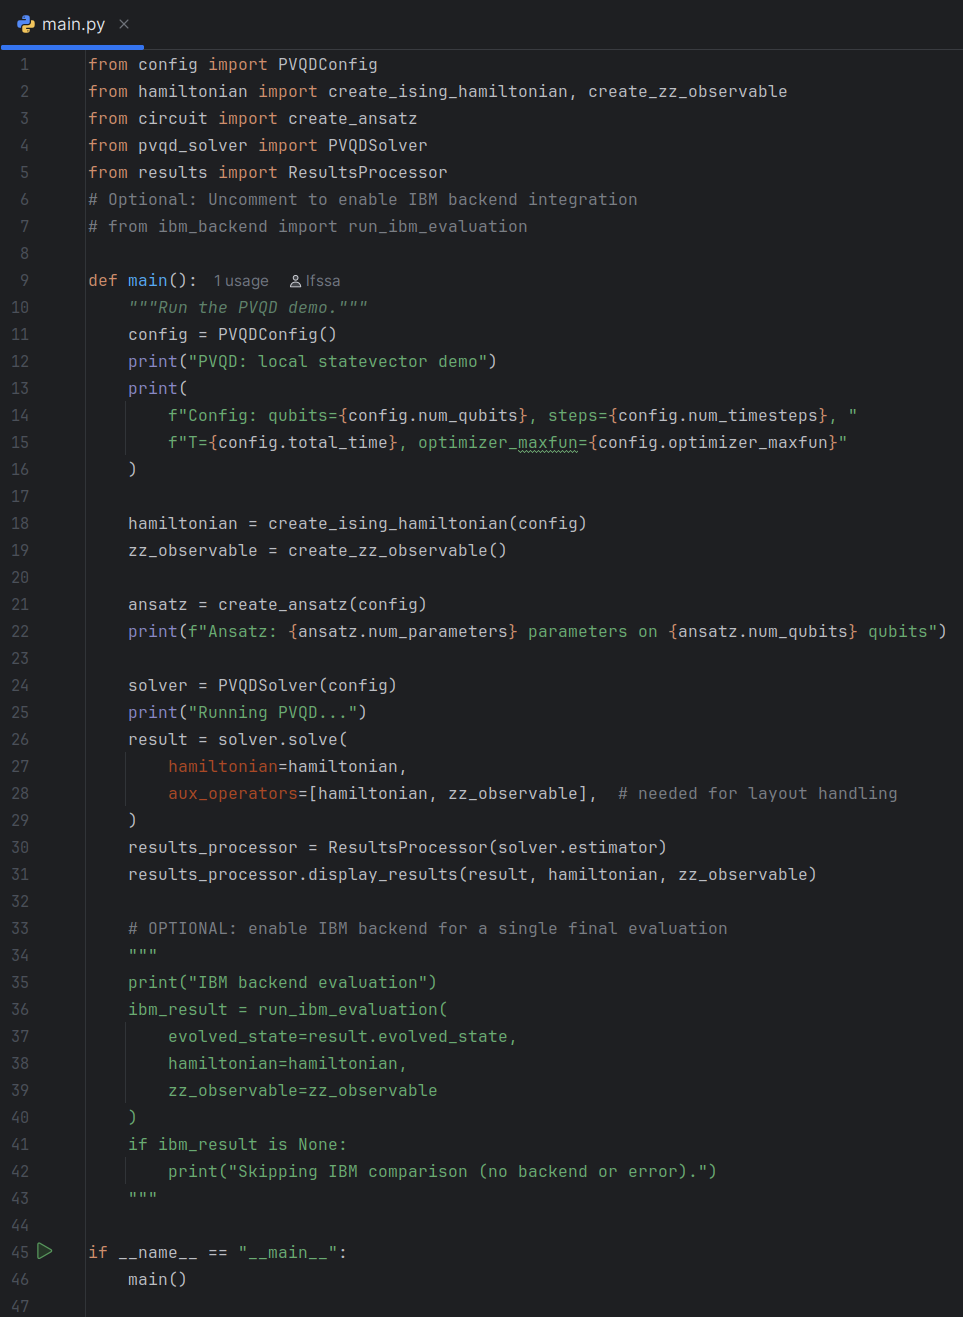
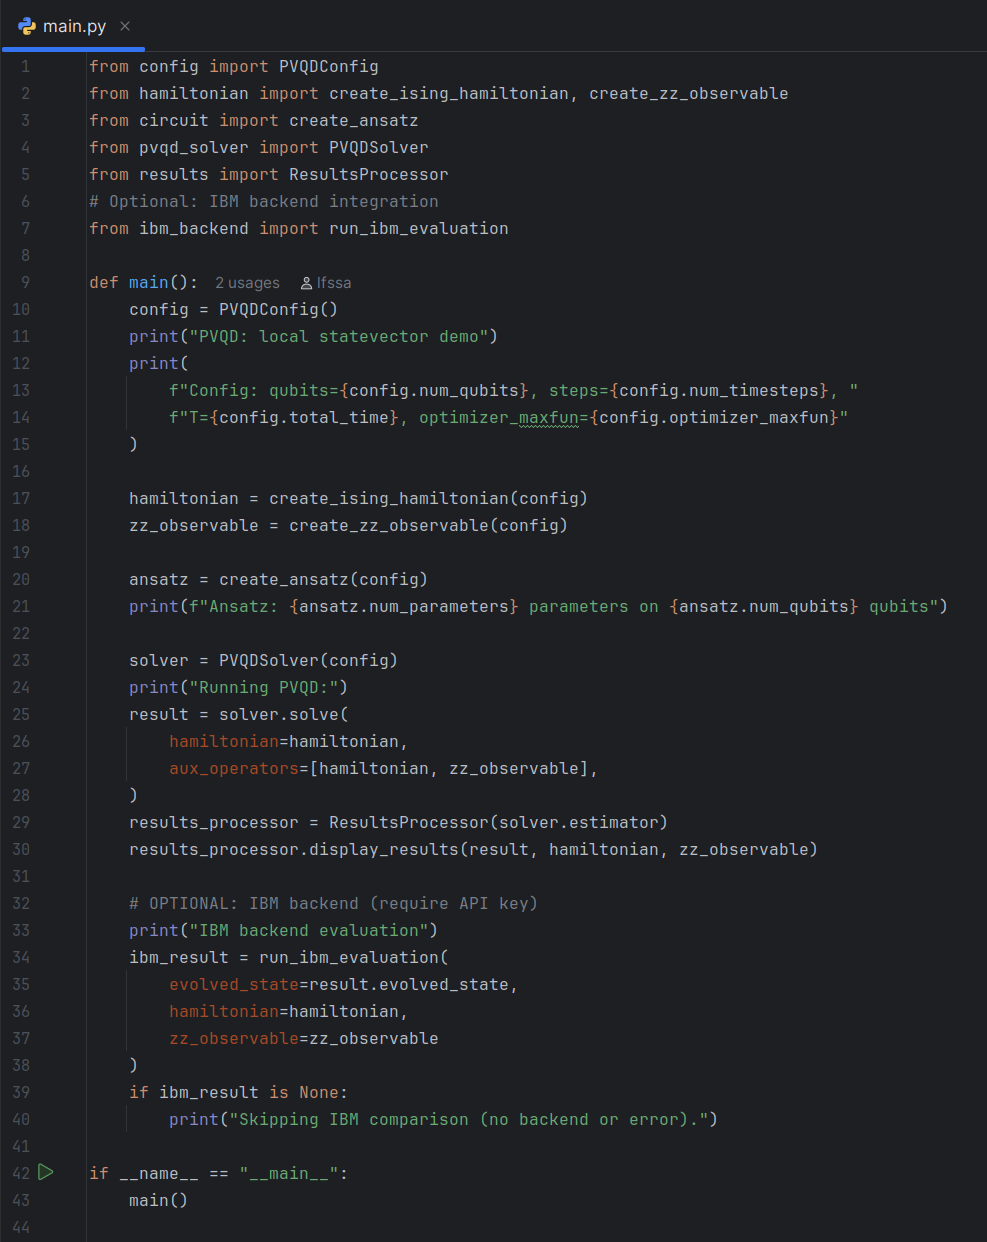
slides v2

diff --git a/presentation/slides.tex b/presentation/slides.tex
@@ -1,35 +1,24 @@
 \documentclass[10pt]{beamer}
 
-% Tema limpo e profissional
 \usetheme{Madrid}
 \usecolortheme{seahorse}
 
 \usepackage{graphicx}
+\usepackage{adjustbox}
 \usepackage{amsmath}
 \usepackage{bm}
-\usepackage{listings}
 \usepackage{xcolor}
 
-% Cores personalizadas (baseado no banner)
+% Cores personalizadas
 \definecolor{academicblue}{RGB}{0,51,102}
 \definecolor{lightblue}{RGB}{230,240,250}
 
 \setbeamercolor{title}{fg=academicblue}
 \setbeamercolor{frametitle}{fg=academicblue}
 
-\lstset{
-    language=Python,
-    basicstyle=\ttfamily\footnotesize,
-    keywordstyle=\color{academicblue}\bfseries,
-    commentstyle=\color{gray}\itshape,
-    stringstyle=\color{academicblue},
-    showstringspaces=false,
-    breaklines=true
-}
-
 \title[PVQD]{Projeção Variacional da Dinâmica Quântica (PVQD)}
 \author{Lucas F. Brayner \\ Luiz Felipe Sá \\ Victor S. Dutra}
-\institute{Ciência da Computação – UNINASSAU}
+\institute{Ciência da Computação -- UNINASSAU}
 \date{2025}
 
 % -------------------------------------------------------
@@ -43,56 +32,57 @@
 \begin{frame}{Motivação}
   \begin{itemize}
     \item Simular a evolução temporal de sistemas quânticos é computacionalmente caro.
-    \item Trotterização exige circuitos profundos → difícil para hardware NISQ.
+    \item Trotterização exige circuitos profundos $\rightarrow$ difícil para hardware NISQ.
     \item O PVQD evita decompor $e^{-iHt}$ e usa otimização variacional.
-    \item Ótimo para sistemas pequenos, como o modelo de Ising.
+    \item Bom cenário de teste: modelo de Ising com poucos qubits.
   \end{itemize}
 \end{frame}
 
 % -------------------------------------------------------
 \begin{frame}{O que é o PVQD?}
   \begin{itemize}
-    \item Método híbrido quântico–clássico.
-    \item Aproxima a dinâmica pela projeção da equação de Schrödinger:
+    \item Método híbrido quântico--clássico.
+    \item Aproxima a dinâmica pela equação de Schrödinger:
     \[
-      i \frac{d}{dt}|\psi(t)\rangle = H|\psi(t)\rangle.
+      i \frac{d}{dt}\lvert \psi(t)\rangle = H \lvert \psi(t)\rangle .
     \]
-    \item O estado é restrito a um ansatz parametrizado:
+    \item Restringimos o estado a um ansatz parametrizado:
     \[
-      |\psi(\theta(t))\rangle.
+      \lvert \psi(\boldsymbol{\theta}(t))\rangle.
     \]
-    \item A evolução é obtida ajustando $\dot{\theta}$ em cada passo.
+    \item A evolução é obtida atualizando os parâmetros em cada passo de tempo.
   \end{itemize}
 \end{frame}
 
 % -------------------------------------------------------
-\begin{frame}{Equação Variacional}
+\begin{frame}{Equação variacional do PVQD}
 \[
-  \min_{\dot{\bm{\theta}}}
-  \Big\|
-    \frac{d}{dt}|\psi(\bm{\theta})\rangle
-    - H|\psi(\bm{\theta})\rangle
-  \Big\|^2
+  \min_{\dot{\boldsymbol{\theta}}}
+  \left\|
+    \frac{d}{dt} \lvert \psi(\boldsymbol{\theta})\rangle
+    - H \lvert \psi(\boldsymbol{\theta})\rangle
+  \right\|^2
 \]
+
 \begin{itemize}
-  \item Isso gera um sistema linear:
-  \[
-    M \cdot \dot{\bm{\theta}} = V,
-  \]
-  onde $M$ é a matriz variacional e $V$ é o vetor de forças.
-  \item Resolver este sistema fornece os incrementos dos parâmetros.
+  \item Isso leva a um sistema linear:
+    \[
+      M \, \dot{\boldsymbol{\theta}} = V,
+    \]
+    onde $M$ é a matriz variacional e $V$ o vetor de forças.
+  \item O algoritmo resolve esse sistema a cada passo para atualizar os parâmetros.
 \end{itemize}
 \end{frame}
 
 % -------------------------------------------------------
 \begin{frame}{Fluxo geral do algoritmo PVQD}
 \begin{enumerate}
-    \item Definir Hamiltoniano $H$.
-    \item Definir ansatz variacional $|\psi(\theta)\rangle$.
-    \item Medir $M$ e $V$.
-    \item Resolver $M\dot{\theta} = V$.
+    \item Definir Hamiltoniano $H$ (modelo físico).
+    \item Escolher ansatz variacional $\lvert \psi(\boldsymbol{\theta})\rangle$.
+    \item Medir grandezas necessárias para $M$ e $V$.
+    \item Resolver $M \dot{\boldsymbol{\theta}} = V$.
     \item Atualizar parâmetros e avançar no tempo.
-    \item Medir observáveis (energia, correlação, fidelidade).
+    \item Medir observáveis: energia, correlação, fidelidade.
 \end{enumerate}
 
 \begin{center}
@@ -108,44 +98,77 @@ H = J \sum_i Z_i Z_{i+1} + h_x \sum_i X_i
 \]
 
 \begin{itemize}
-    \item Utilizamos $J = 1$, $h_x = 1$.
-    \item Sistema de 2 qubits.
-    \item Ideal para testar PVQD devido à forte correlação de spins.
+    \item Parâmetros escolhidos: $J = 0{,}5$ e $h_x = 0{,}1$ (configuração padrão).
+    \item Sistema de 2 qubits, com acoplamentos $ZZ$ e campo transversal em $X$.
+    \item Simulação em modo \emph{statevector} usando Qiskit.
 \end{itemize}
-
 \end{frame}
 
 % -------------------------------------------------------
 \begin{frame}{Ansatz utilizado}
 \begin{itemize}
-  \item Duas camadas com rotações locais + acoplamento $ZZ(\theta)$.
-  \item Poucos parâmetros (8 no total).
+  \item Circuito do tipo \texttt{EfficientSU2} com:
+    \begin{itemize}
+      \item Rotações locais em cada qubit.
+      \item Camada de emaranhamento linear.
+      \item Apenas 1 repetição (reps = 1).
+    \end{itemize}
+  \item Total de 8 parâmetros para 2 qubits.
 \end{itemize}
 
 \begin{center}
 \includegraphics[width=0.55\linewidth]{images/ansatz_layer.png}
 \end{center}
-
 \end{frame}
 
 % -------------------------------------------------------
-\begin{frame}[fragile]{Código-base da simulação}
+% ARQUITETURA + PRINTS DE CÓDIGO
+% -------------------------------------------------------
 
-\begin{lstlisting}
-config = PVQDConfig()
-h = create_ising_hamiltonian(config)
-ans = create_ansatz(config)
-solver = PVQDSolver(config)
+\begin{frame}{Arquitetura do código PVQD}
+  \begin{itemize}
+    \item \textbf{config.py}: define parâmetros físicos e numéricos da simulação.
+    \item \textbf{hamiltonian.py}: constrói o Hamiltoniano de Ising e o observável $ZZ$.
+    \item \textbf{circuit.py}: cria o ansatz variacional (\texttt{EfficientSU2}).
+    \item \textbf{pvqd\_solver.py}: configura o algoritmo PVQD da Qiskit.
+    \item \textbf{results.py}: imprime tempos, fidelidades, energia e correlações.
+  \end{itemize}
+\end{frame}
 
-result = solver.solve(
-    hamiltonian=h,
-    aux_operators=[h]
-)
+\begin{frame}{Parâmetros da simulação: \texttt{config.py}}
+  \begin{center}
+    \adjustbox{max width=0.95\linewidth,max height=0.85\textheight,center}{\includegraphics{images/config.png}}
+  \end{center}
+\end{frame}
 
-ResultsProcessor(solver.estimator)\
-    .display_results(result, h)
-\end{lstlisting}
+\begin{frame}{Modelo físico: \texttt{hamiltonian.py}}
+  \begin{center}
+    \adjustbox{max width=0.95\linewidth,max height=0.85\textheight,center}{\includegraphics{images/hamiltonian.png}}
+  \end{center}
+\end{frame}
 
+\begin{frame}{Ansatz variacional: \texttt{circuit.py}}
+  \begin{center}
+    \adjustbox{max width=0.95\linewidth,max height=0.85\textheight,center}{\includegraphics{images/circuit.png}}
+  \end{center}
+\end{frame}
+
+\begin{frame}{Algoritmo PVQD: \texttt{pvqd\_solver.py}}
+  \begin{center}
+    \adjustbox{max width=0.95\linewidth,max height=0.85\textheight,center}{\includegraphics{images/pvqd_solver.png}}
+  \end{center}
+\end{frame}
+
+\begin{frame}{Pós-processamento: \texttt{results.py}}
+  \begin{center}
+    \adjustbox{max width=0.95\linewidth,max height=0.85\textheight,center}{\includegraphics{images/results.png}}
+  \end{center}
+\end{frame}
+
+\begin{frame}{Fluxo principal: \texttt{main.py}}
+  \begin{center}
+    \adjustbox{max width=0.95\linewidth,max height=0.85\textheight,center}{\includegraphics{images/main.png}}
+  \end{center}
 \end{frame}
 
 % -------------------------------------------------------
@@ -153,14 +176,14 @@ ResultsProcessor(solver.estimator)\
 \begin{itemize}
   \item Qubits: 2
   \item Passos de tempo: 10
-  \item Tempo total: $T = 1.0$
+  \item Tempo total: $T = 1{,}0$
   \item Parâmetros do ansatz: 8
-  \item Otimizador: 20 iterações por passo
+  \item Otimizador clássico: até 20 avaliações por passo (\texttt{L\_BFGS\_B})
 \end{itemize}
 \end{frame}
 
 % -------------------------------------------------------
-\begin{frame}{Resultado: Fidelidade}
+\begin{frame}{Resultado: fidelidade}
 \begin{center}
 \begin{tabular}{c c}
 \hline
@@ -174,12 +197,12 @@ $t$ & Fidelidade \\
 
 \vspace{0.3cm}
 
-Alta fidelidade $\Rightarrow$ trajetória temporal bem aproximada.
+Fidelidade mínima observada: $\mathcal{F}_{\min} \approx 0{,}998$.
 \end{center}
 \end{frame}
 
 % -------------------------------------------------------
-\begin{frame}{Resultado: Energia e correlação}
+\begin{frame}{Resultado: energia e correlação}
 \begin{center}
 \begin{tabular}{c c c}
 \hline
@@ -193,28 +216,28 @@ $t$ & $\langle H\rangle$ & $\langle ZZ\rangle$ \\
 \end{center}
 
 \begin{itemize}
-  \item Energia suave → dinâmica consistente.
-  \item Correlação próxima de 1 → forte alinhamento de spins.
+  \item Energia varia suavemente ao longo do tempo.
+  \item Correlação $\langle ZZ\rangle$ próxima de 1 indica forte correlação de spins.
 \end{itemize}
 \end{frame}
 
 % -------------------------------------------------------
 \begin{frame}{Conclusões}
 \begin{itemize}
-  \item O PVQD aproximou bem a evolução dinâmica do modelo de Ising.
-  \item Ansätze rasos podem atingir fidelidades altas.
-  \item Método promissor para simulações no regime NISQ.
-  \item Evita circuitos longos baseados em Trotterização.
+  \item PVQD reproduziu bem a dinâmica do modelo de Ising em 2 qubits.
+  \item Um ansatz raso com 8 parâmetros foi suficiente para alta fidelidade.
+  \item Método promissor para simulações em hardware NISQ, com circuitos mais curtos que Trotterização.
+  \item Próximo passo: comparação sistemática com hardware IBM Quantum.
 \end{itemize}
 \end{frame}
 
 % -------------------------------------------------------
 \begin{frame}{Referências}
 {\footnotesize
-1. Qiskit PVQD Tutorial.  
-2. Barison, Vicentini, Carleo (2021) – Quantum Journal.  
-3. IBM Quantum PVQD API Documentation.  
-4. Barison et al., arXiv:2101.04579.
+1. Qiskit Algorithms. \emph{Projected Variational Quantum Dynamics Tutorial}. \\
+2. Barison, S.; Vicentini, F.; Carleo, G. \emph{An efficient quantum algorithm for the time evolution of parameterized circuits}. Quantum 5, 512 (2021). \\
+3. IBM Quantum. \emph{PVQD API Documentation}. \\
+4. Barison, S.; Vicentini, F.; Carleo, G. arXiv:2101.04579 (2021).
 }
 \end{frame}
 
